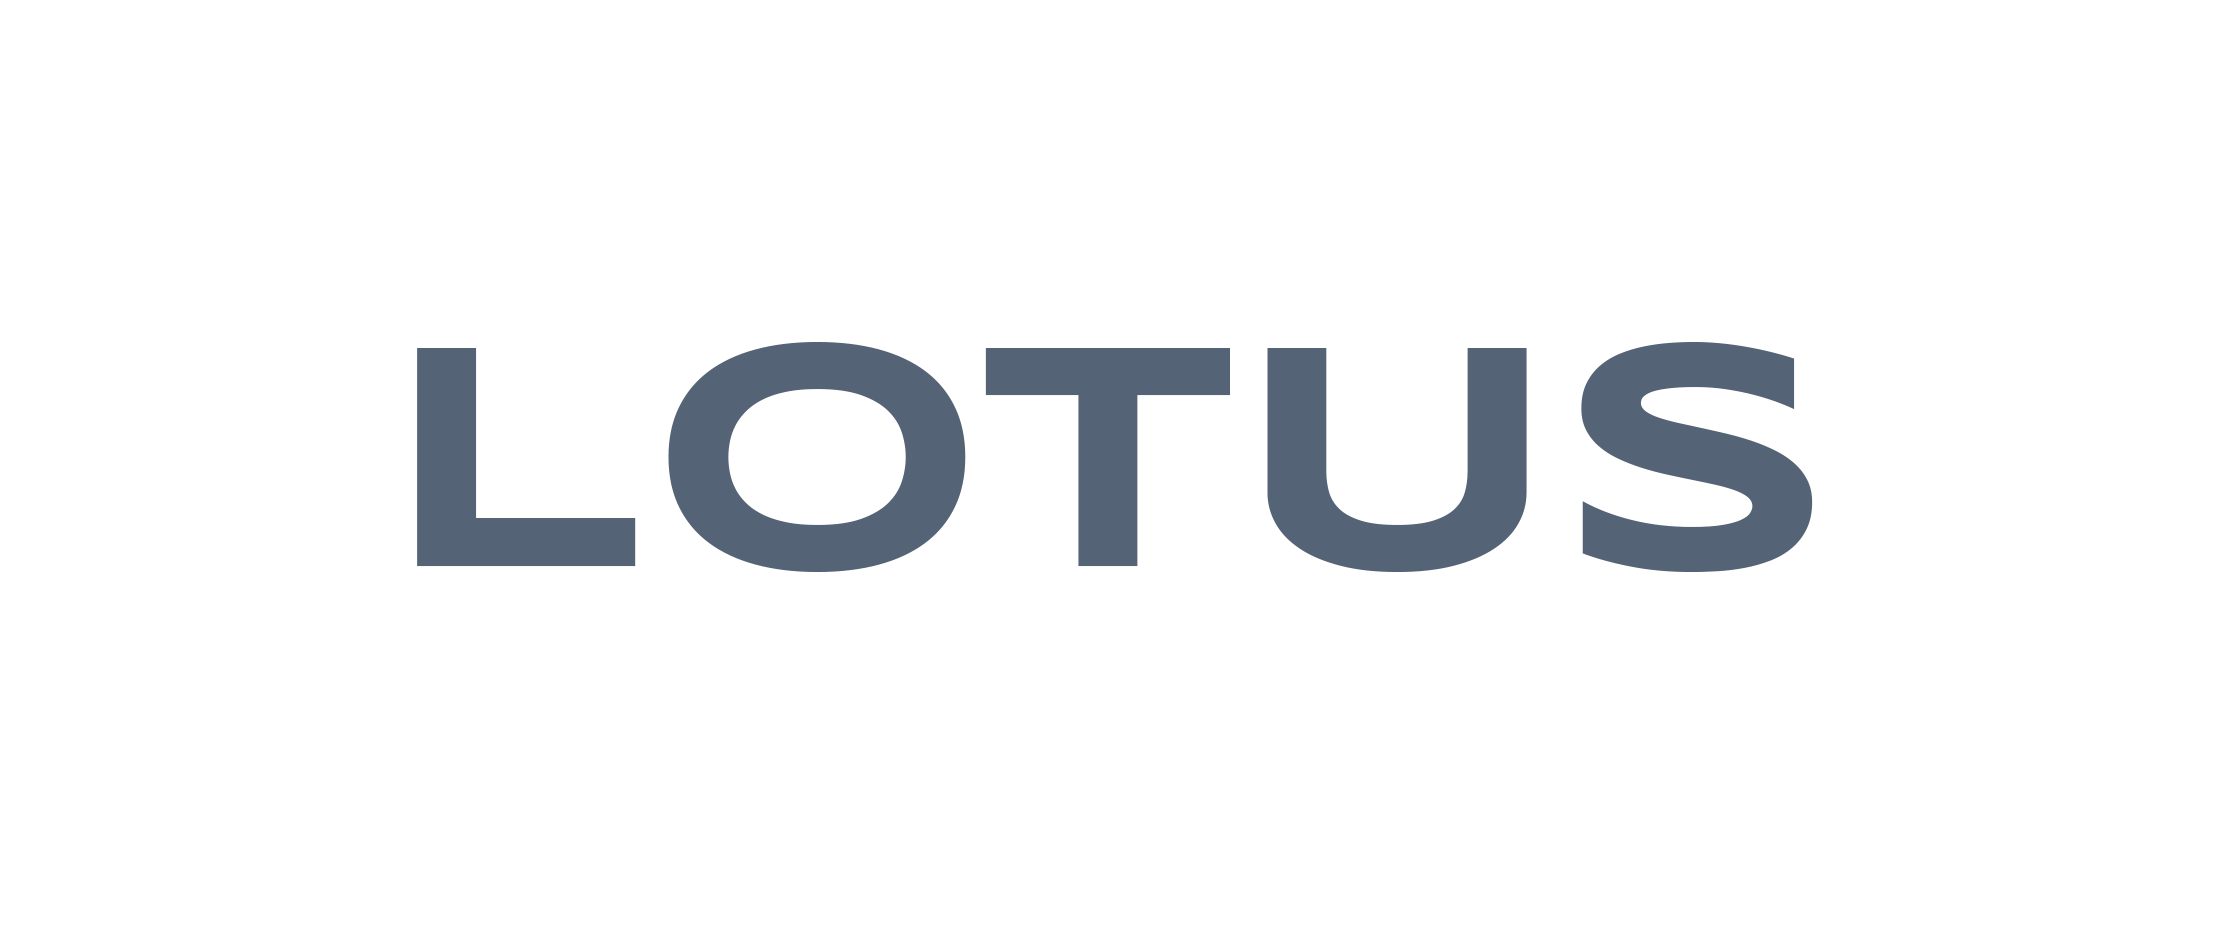
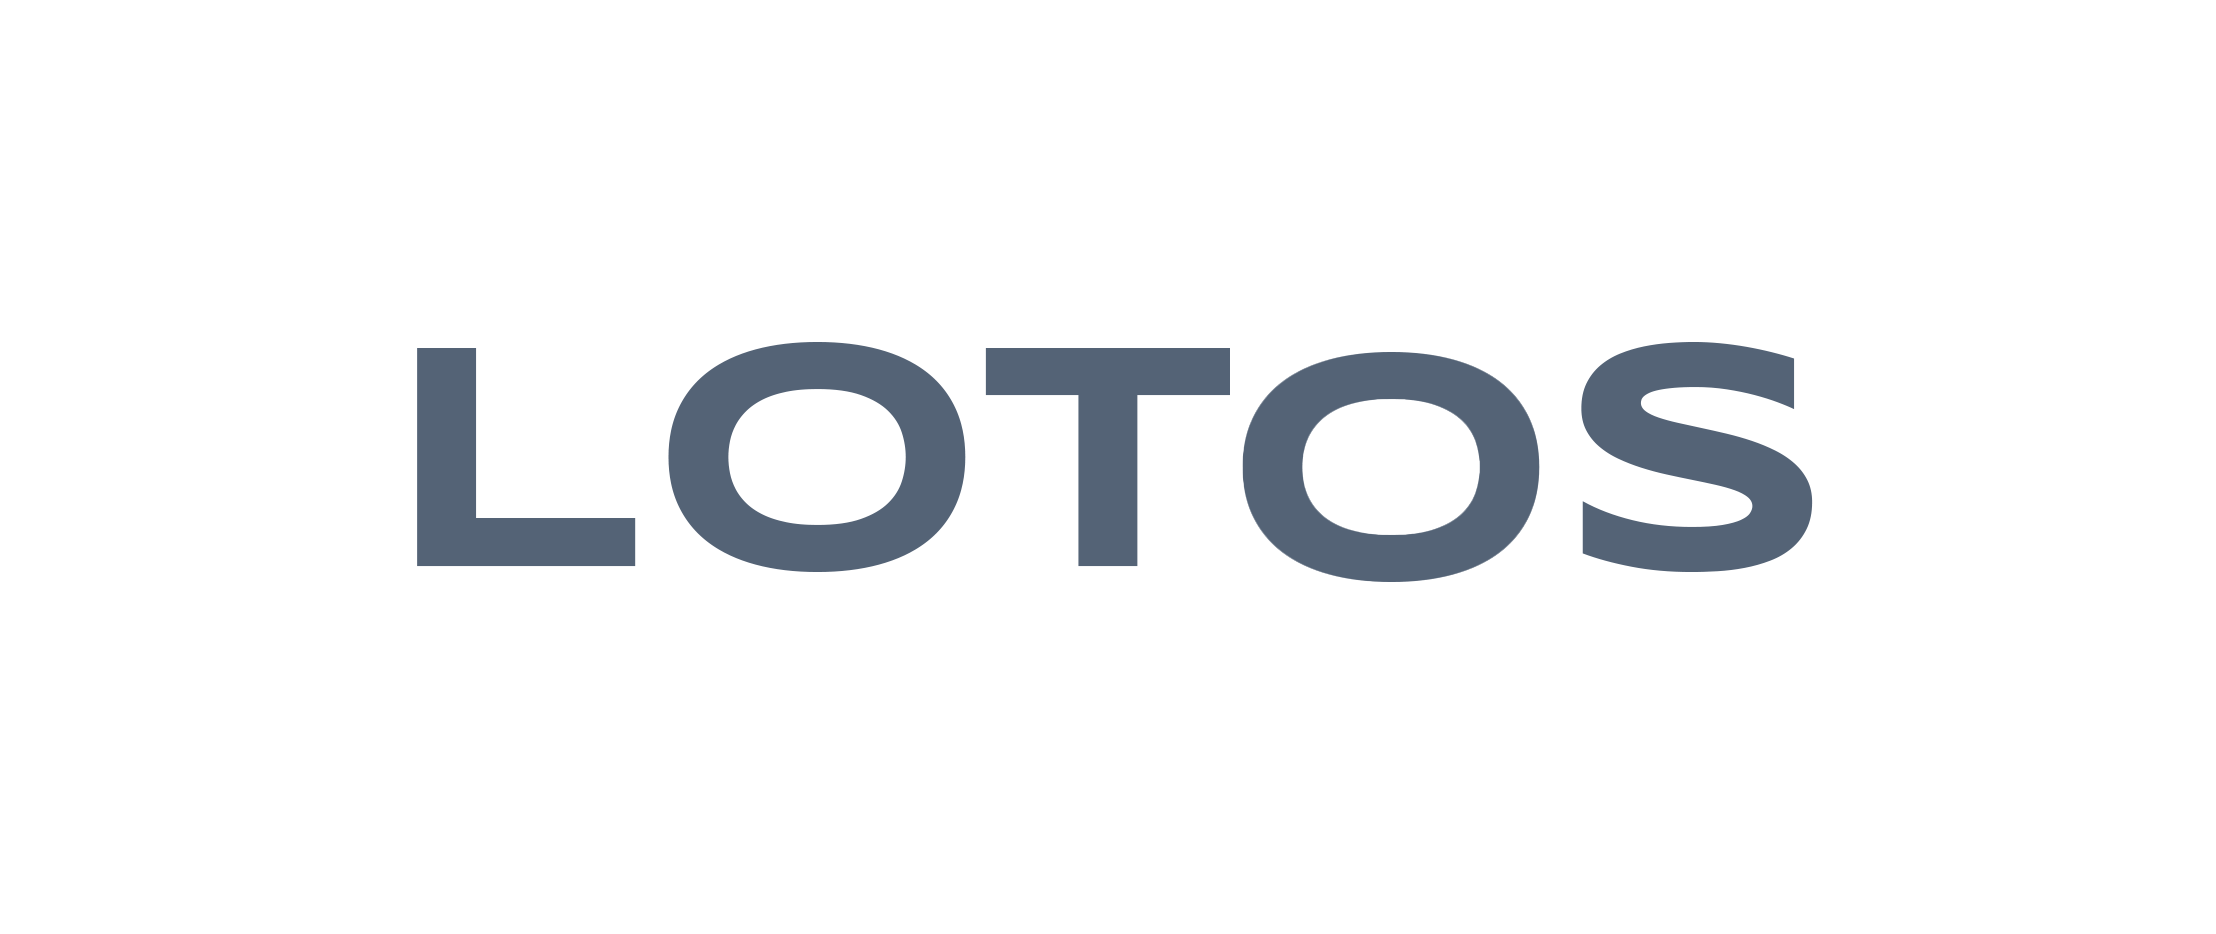
5456

Changed region(s): [[0.5605, 0.3726, 0.7162, 0.621]]

diff --git a/src/components/LotosA.jsx b/src/components/LotosA.jsx
@@ -1,0 +1,31 @@
+import { Lotos3 } from "../assets";
+import styles, { layout } from "../style";
+
+const LotosA = () => (
+    <section id="products" className={`${layout.sectionReverse} `}>
+        <div className={layout.sectionImgReverse}>
+            <img src={Lotos3} alt="billing" className="w-[100%] h-[100%]  relative z-[5] rounded" />
+        </div>
+        <div className={layout.sectionInfo}>
+            <h2 className={styles.heading2}>
+                Lotos-A
+            </h2>
+            <p className={`${styles.paragraph} mt-5 text-black`}>
+                90x 200, 140x 200,160x200, 180x200 sm ölcüdə  ortopedik yatak, yüksek sertlik
+                1- Doşek 25 cm yüksəkliktə
+                2-900 gr sert keçe
+                3-22 danste 6x16 cm yan destek sünger takozlu,yay karkas sistemi
+                4-20 danste 9 adet iç 5x15 süngər takozlu
+                5-22 danste list sünger üst və altta
+                6-200 gr. hörgülü pamuk örnek kumaş, antibakterial, su keçirmeyen, kenarları zəncirli( asan çıxarıb yiyulması üçün), ləkə asan təmizlənən
+                7-2.1 cm kapitone süngeri
+                8-Özəl lotus deseni
+                9-Oval hava komsülleri
+                10-Yazılı yan kulplar
+            </p>
+        </div>
+
+    </section>
+);
+
+export default LotosA;

diff --git a/src/components/Second.jsx b/src/components/Second.jsx
@@ -8,20 +8,10 @@ const Second = () => (
         </div>
         <div className={layout.sectionInfo}>
             <h2 className={styles.heading2}>
-                Lotus
+                Lotos
             </h2>
             <p className={`${styles.paragraph} mt-5 text-black`}>
-                160x200 ortopedik yatak<br />
-                1- Doşek 24 cm yüksəkliktə<br />
-                2-900 gr sert keçe<br />
-                3-22 danste 6x16 cm yan destek sünger takozlu<br />
-                4-20 danste 9 adet iç 5x15 süngər takozlu<br />
-                5-22 danste list sünger üst və altta<br />
-                6-200 gr.pamuk örnek kumaş<br />
-                7-2.1 cm kapitone süngeri<br />
-                8-Özəl lotus deseni<br />
-                9-Oval hava komsülleri<br />
-                10-Yazılı yan kulplar<br />
+                Orta sərtliyə malik olmalı, bel, kürək, baş-boyun və diz bölgələri dəstəkləeən müstəqil yay karkas sistemi olmalıdır, yatagın tam ortopedik olmasını təmin edən, yüksək sıxlıqlı süngər elementləri olmalı, üzlüyünün parçası - antibakterial, hörgülü pambıq parça. Ortopedik döşəyin ölçüləri - hündürlüyü - 25 sm (±), eni - 90 sm, uzunluq - 200 sm
             </p>
         </div>
 

diff --git a/src/Pages/Main.jsx b/src/Pages/Main.jsx
@@ -1,5 +1,5 @@
 import styles from "../style";
-import { Billing, Second, Business, Clients, Footer, NavBar, Hero, Seconnn, Visco, } from "../components";
+import { Billing, Second, Business, Clients, Footer, NavBar, Hero, Seconnn, Visco, LotosA, } from "../components";
 import Imagas from "../components/imgas";
 import SimpleSlider from "../components/Carousel";
 import Lili from "../components/LİLİ";
@@ -27,6 +27,7 @@ const Main = () => (
                     <Seconnn />
                     <Billing />
                     <Visco />
+                    <LotosA />
                     <div className="products" id="product">
                         <Imagas />
                     </div>

diff --git a/src/components/index.js b/src/components/index.js
@@ -8,12 +8,14 @@ import Footer from "./Footer";
 import Hero from "./Hero";
 import Second from "./Second";
 import Seconnn from "./Seconnn";
-import LILI from "./LİLİ"
-import Visco from "./Visco"
+import LILI from "./LİLİ";
+import Visco from "./Visco";
+import LotosA from "./LotosA";
 
 export {
   NavBar,
   LILI,
+  LotosA,
   Visco,
   Billing,
   Second,

diff --git a/src/assets/index.js b/src/assets/index.js
@@ -42,6 +42,7 @@ import img3318 from "./img3318.jpg";
 import visco from "./visco.png";
 import visco2 from "./visco.jpg";
 import lili from "./lili.jpg";
+import Lotos3 from "./Lotos3.jpg";
 
 
 export {
@@ -49,6 +50,7 @@ export {
   lili,
   visco,
   visco2,
+  Lotos3,
   banner,
   img1,
   img14,
